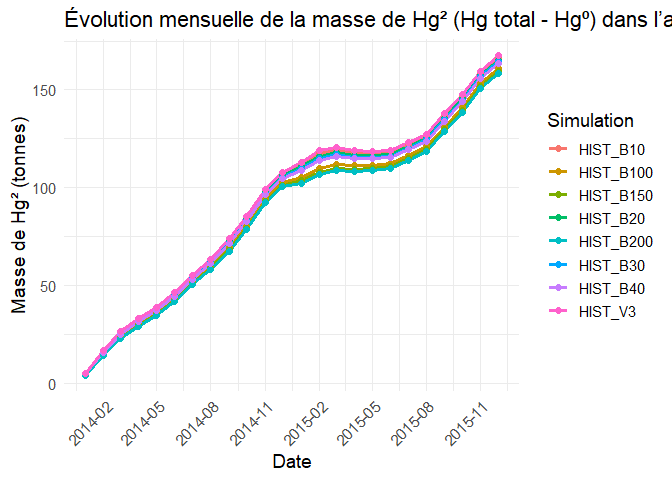
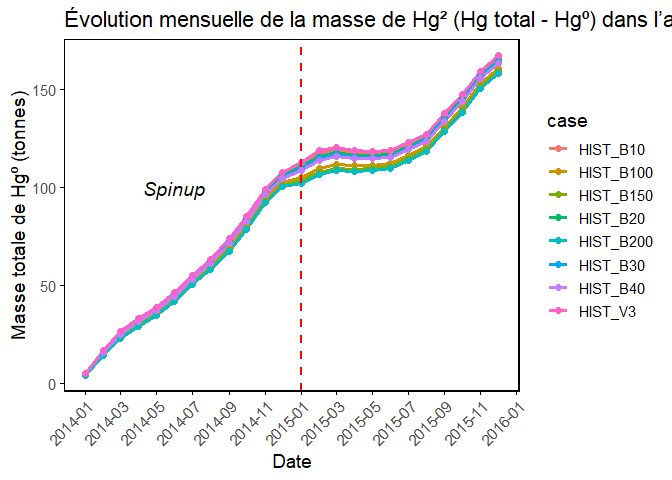
Evol_mass_mercury_2014_2015_20_06_2025

diff --git a/notebooks/Markdown_R/Evol_mass_mercury_2014_2015_20_06_2025/Evol_mass_mercury_2014_2015_20_06_2025.html b/notebooks/Markdown_R/Evol_mass_mercury_2014_2015_20_06_2025/Evol_mass_mercury_2014_2015_20_06_2025.html
@@ -859,34 +859,21 @@ padding-top: 0px;
 <span id="cb10-4"><a href="#cb10-4" tabindex="-1"></a>  <span class="fu">labs</span>(</span>
 <span id="cb10-5"><a href="#cb10-5" tabindex="-1"></a>    <span class="at">title =</span> <span class="st">&quot;Évolution mensuelle de la masse de Hg² (Hg total - Hg⁰) dans l’atmosphère&quot;</span>,</span>
 <span id="cb10-6"><a href="#cb10-6" tabindex="-1"></a>    <span class="at">x =</span> <span class="st">&quot;Date&quot;</span>,</span>
-<span id="cb10-7"><a href="#cb10-7" tabindex="-1"></a>    <span class="at">y =</span> <span class="st">&quot;Masse de Hg² (tonnes)&quot;</span>,</span>
-<span id="cb10-8"><a href="#cb10-8" tabindex="-1"></a>    <span class="at">color =</span> <span class="st">&quot;Simulation&quot;</span></span>
-<span id="cb10-9"><a href="#cb10-9" tabindex="-1"></a>  ) <span class="sc">+</span></span>
-<span id="cb10-10"><a href="#cb10-10" tabindex="-1"></a>  <span class="fu">scale_x_date</span>(<span class="at">date_breaks =</span> <span class="st">&quot;3 months&quot;</span>, <span class="at">date_labels =</span> <span class="st">&quot;%Y-%m&quot;</span>) <span class="sc">+</span></span>
-<span id="cb10-11"><a href="#cb10-11" tabindex="-1"></a>  <span class="fu">theme_minimal</span>(<span class="at">base_size =</span> <span class="dv">14</span>) <span class="sc">+</span></span>
-<span id="cb10-12"><a href="#cb10-12" tabindex="-1"></a>  <span class="fu">theme</span>(<span class="at">axis.text.x =</span> <span class="fu">element_text</span>(<span class="at">angle =</span> <span class="dv">45</span>, <span class="at">hjust =</span> <span class="dv">1</span>))</span></code></pre></div>
[1 lines of base64/hex data omitted]
-<div class="sourceCode" id="cb11"><pre class="sourceCode r"><code class="sourceCode r"><span id="cb11-1"><a href="#cb11-1" tabindex="-1"></a><span class="fu">ggplot</span>(results_mass_Hg2, <span class="fu">aes</span>(<span class="at">x =</span> date, <span class="at">y =</span> total_Hg2_mass_tonnes, <span class="at">color =</span> case)) <span class="sc">+</span></span>
-<span id="cb11-2"><a href="#cb11-2" tabindex="-1"></a>  <span class="fu">geom_line</span>(<span class="at">size =</span> <span class="fl">1.1</span>) <span class="sc">+</span></span>
-<span id="cb11-3"><a href="#cb11-3" tabindex="-1"></a>  <span class="fu">geom_point</span>(<span class="at">size =</span> <span class="dv">2</span>) <span class="sc">+</span></span>
-<span id="cb11-4"><a href="#cb11-4" tabindex="-1"></a>  <span class="fu">labs</span>(</span>
-<span id="cb11-5"><a href="#cb11-5" tabindex="-1"></a>    <span class="at">title =</span> <span class="st">&quot;Évolution mensuelle de la masse de Hg² (Hg total - Hg⁰) dans l’atmosphère&quot;</span>,</span>
-<span id="cb11-6"><a href="#cb11-6" tabindex="-1"></a>    <span class="at">x =</span> <span class="st">&quot;Date&quot;</span>,</span>
-<span id="cb11-7"><a href="#cb11-7" tabindex="-1"></a>    <span class="at">y =</span> <span class="st">&quot;Masse totale de Hg⁰ (tonnes)&quot;</span></span>
-<span id="cb11-8"><a href="#cb11-8" tabindex="-1"></a>  ) <span class="sc">+</span></span>
-<span id="cb11-9"><a href="#cb11-9" tabindex="-1"></a>  <span class="fu">annotate</span>(<span class="st">&quot;text&quot;</span>, <span class="at">x =</span> <span class="fu">as.Date</span>(<span class="st">&quot;2014-06-01&quot;</span>), <span class="at">y =</span> <span class="dv">100</span>, <span class="at">label =</span> <span class="st">&quot;Spinup&quot;</span>, <span class="at">size =</span> <span class="dv">5</span>, <span class="at">fontface =</span> <span class="st">&quot;italic&quot;</span>)<span class="sc">+</span></span>
-<span id="cb11-10"><a href="#cb11-10" tabindex="-1"></a>  <span class="fu">scale_x_date</span>(</span>
-<span id="cb11-11"><a href="#cb11-11" tabindex="-1"></a>    <span class="at">date_breaks =</span> <span class="st">&quot;2 months&quot;</span>,</span>
-<span id="cb11-12"><a href="#cb11-12" tabindex="-1"></a>    <span class="at">date_labels =</span> <span class="st">&quot;%Y-%m&quot;</span></span>
-<span id="cb11-13"><a href="#cb11-13" tabindex="-1"></a>  ) <span class="sc">+</span></span>
-<span id="cb11-14"><a href="#cb11-14" tabindex="-1"></a>  <span class="fu">geom_vline</span>(<span class="at">xintercept =</span> <span class="fu">as.Date</span>(<span class="st">&quot;2015-01-01&quot;</span>), <span class="at">color =</span> <span class="st">&quot;red&quot;</span>, <span class="at">linetype =</span> <span class="st">&quot;dashed&quot;</span>, <span class="at">linewidth =</span> <span class="dv">1</span>)<span class="sc">+</span></span>
-<span id="cb11-15"><a href="#cb11-15" tabindex="-1"></a>  <span class="fu">theme_classic</span>(<span class="at">base_size =</span> <span class="dv">14</span>) <span class="sc">+</span></span>
-<span id="cb11-16"><a href="#cb11-16" tabindex="-1"></a>  <span class="fu">theme</span>(</span>
-<span id="cb11-17"><a href="#cb11-17" tabindex="-1"></a>    <span class="at">axis.line =</span> <span class="fu">element_line</span>(<span class="at">color =</span> <span class="st">&quot;black&quot;</span>),</span>
-<span id="cb11-18"><a href="#cb11-18" tabindex="-1"></a>    <span class="at">axis.ticks =</span> <span class="fu">element_line</span>(<span class="at">color =</span> <span class="st">&quot;black&quot;</span>),</span>
-<span id="cb11-19"><a href="#cb11-19" tabindex="-1"></a>    <span class="at">axis.text.x =</span> <span class="fu">element_text</span>(<span class="at">angle =</span> <span class="dv">45</span>, <span class="at">hjust =</span> <span class="dv">1</span>, <span class="at">vjust =</span> <span class="dv">1</span>),</span>
-<span id="cb11-20"><a href="#cb11-20" tabindex="-1"></a>    <span class="at">panel.border =</span> <span class="fu">element_rect</span>(<span class="at">color =</span> <span class="st">&quot;black&quot;</span>, <span class="at">fill =</span> <span class="cn">NA</span>, <span class="at">linewidth =</span> <span class="fl">0.8</span>)</span>
-<span id="cb11-21"><a href="#cb11-21" tabindex="-1"></a>  )</span></code></pre></div>
+<span id="cb10-7"><a href="#cb10-7" tabindex="-1"></a>    <span class="at">y =</span> <span class="st">&quot;Masse totale de Hg⁰ (tonnes)&quot;</span></span>
+<span id="cb10-8"><a href="#cb10-8" tabindex="-1"></a>  ) <span class="sc">+</span></span>
+<span id="cb10-9"><a href="#cb10-9" tabindex="-1"></a>  <span class="fu">annotate</span>(<span class="st">&quot;text&quot;</span>, <span class="at">x =</span> <span class="fu">as.Date</span>(<span class="st">&quot;2014-06-01&quot;</span>), <span class="at">y =</span> <span class="dv">100</span>, <span class="at">label =</span> <span class="st">&quot;Spinup&quot;</span>, <span class="at">size =</span> <span class="dv">5</span>, <span class="at">fontface =</span> <span class="st">&quot;italic&quot;</span>)<span class="sc">+</span></span>
+<span id="cb10-10"><a href="#cb10-10" tabindex="-1"></a>  <span class="fu">scale_x_date</span>(</span>
+<span id="cb10-11"><a href="#cb10-11" tabindex="-1"></a>    <span class="at">date_breaks =</span> <span class="st">&quot;2 months&quot;</span>,</span>
+<span id="cb10-12"><a href="#cb10-12" tabindex="-1"></a>    <span class="at">date_labels =</span> <span class="st">&quot;%Y-%m&quot;</span></span>
+<span id="cb10-13"><a href="#cb10-13" tabindex="-1"></a>  ) <span class="sc">+</span></span>
+<span id="cb10-14"><a href="#cb10-14" tabindex="-1"></a>  <span class="fu">geom_vline</span>(<span class="at">xintercept =</span> <span class="fu">as.Date</span>(<span class="st">&quot;2015-01-01&quot;</span>), <span class="at">color =</span> <span class="st">&quot;red&quot;</span>, <span class="at">linetype =</span> <span class="st">&quot;dashed&quot;</span>, <span class="at">linewidth =</span> <span class="dv">1</span>)<span class="sc">+</span></span>
+<span id="cb10-15"><a href="#cb10-15" tabindex="-1"></a>  <span class="fu">theme_classic</span>(<span class="at">base_size =</span> <span class="dv">14</span>) <span class="sc">+</span></span>
+<span id="cb10-16"><a href="#cb10-16" tabindex="-1"></a>  <span class="fu">theme</span>(</span>
+<span id="cb10-17"><a href="#cb10-17" tabindex="-1"></a>    <span class="at">axis.line =</span> <span class="fu">element_line</span>(<span class="at">color =</span> <span class="st">&quot;black&quot;</span>),</span>
+<span id="cb10-18"><a href="#cb10-18" tabindex="-1"></a>    <span class="at">axis.ticks =</span> <span class="fu">element_line</span>(<span class="at">color =</span> <span class="st">&quot;black&quot;</span>),</span>
+<span id="cb10-19"><a href="#cb10-19" tabindex="-1"></a>    <span class="at">axis.text.x =</span> <span class="fu">element_text</span>(<span class="at">angle =</span> <span class="dv">45</span>, <span class="at">hjust =</span> <span class="dv">1</span>, <span class="at">vjust =</span> <span class="dv">1</span>),</span>
+<span id="cb10-20"><a href="#cb10-20" tabindex="-1"></a>    <span class="at">panel.border =</span> <span class="fu">element_rect</span>(<span class="at">color =</span> <span class="st">&quot;black&quot;</span>, <span class="at">fill =</span> <span class="cn">NA</span>, <span class="at">linewidth =</span> <span class="fl">0.8</span>)</span>
+<span id="cb10-21"><a href="#cb10-21" tabindex="-1"></a>  )</span></code></pre></div>
[1 lines of base64/hex data omitted]
 
 </body>

diff --git a/notebooks/Markdown_R/Evol_mass_mercury_2014_2015_20_06_2025/Evol_mass_mercury_2014_2015_20_06_2025.md b/notebooks/Markdown_R/Evol_mass_mercury_2014_2015_20_06_2025/Evol_mass_mercury_2014_2015_20_06_2025.md
@@ -289,23 +289,6 @@ ggplot(results_mass_Hg2, aes(x = date, y = total_Hg2_mass_tonnes, color = case))
   labs(
     title = "Évolution mensuelle de la masse de Hg² (Hg total - Hg⁰) dans l’atmosphère",
     x = "Date",
-    y = "Masse de Hg² (tonnes)",
-    color = "Simulation"
-  ) +
-  scale_x_date(date_breaks = "3 months", date_labels = "%Y-%m") +
-  theme_minimal(base_size = 14) +
-  theme(axis.text.x = element_text(angle = 45, hjust = 1))
-```
-
-![](Evol_mass_mercury_2014_2015_20_06_2025_files/figure-gfm/plot%20HgII%20total%20mensuel-1.png)<!-- -->
-
-``` r
-ggplot(results_mass_Hg2, aes(x = date, y = total_Hg2_mass_tonnes, color = case)) +
-  geom_line(size = 1.1) +
-  geom_point(size = 2) +
-  labs(
-    title = "Évolution mensuelle de la masse de Hg² (Hg total - Hg⁰) dans l’atmosphère",
-    x = "Date",
     y = "Masse totale de Hg⁰ (tonnes)"
   ) +
   annotate("text", x = as.Date("2014-06-01"), y = 100, label = "Spinup", size = 5, fontface = "italic")+
@@ -323,4 +306,4 @@ ggplot(results_mass_Hg2, aes(x = date, y = total_Hg2_mass_tonnes, color = case))
   )
 ```
 
-![](Evol_mass_mercury_2014_2015_20_06_2025_files/figure-gfm/plot%20HgII%20total%20mensuel-2.png)<!-- -->
+![](Evol_mass_mercury_2014_2015_20_06_2025_files/figure-gfm/plot%20HgII%20total%20mensuel-1.png)<!-- -->
